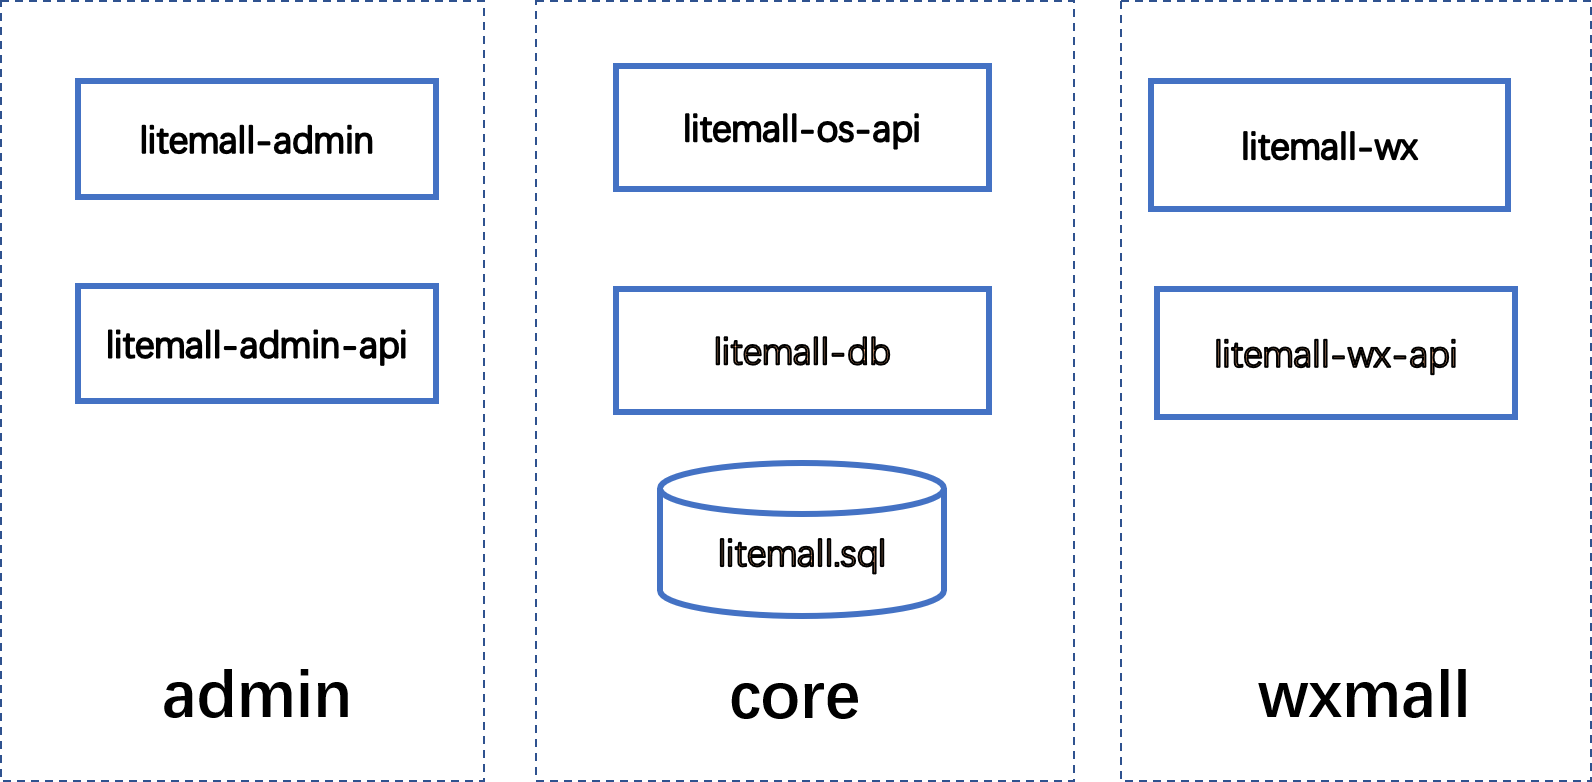
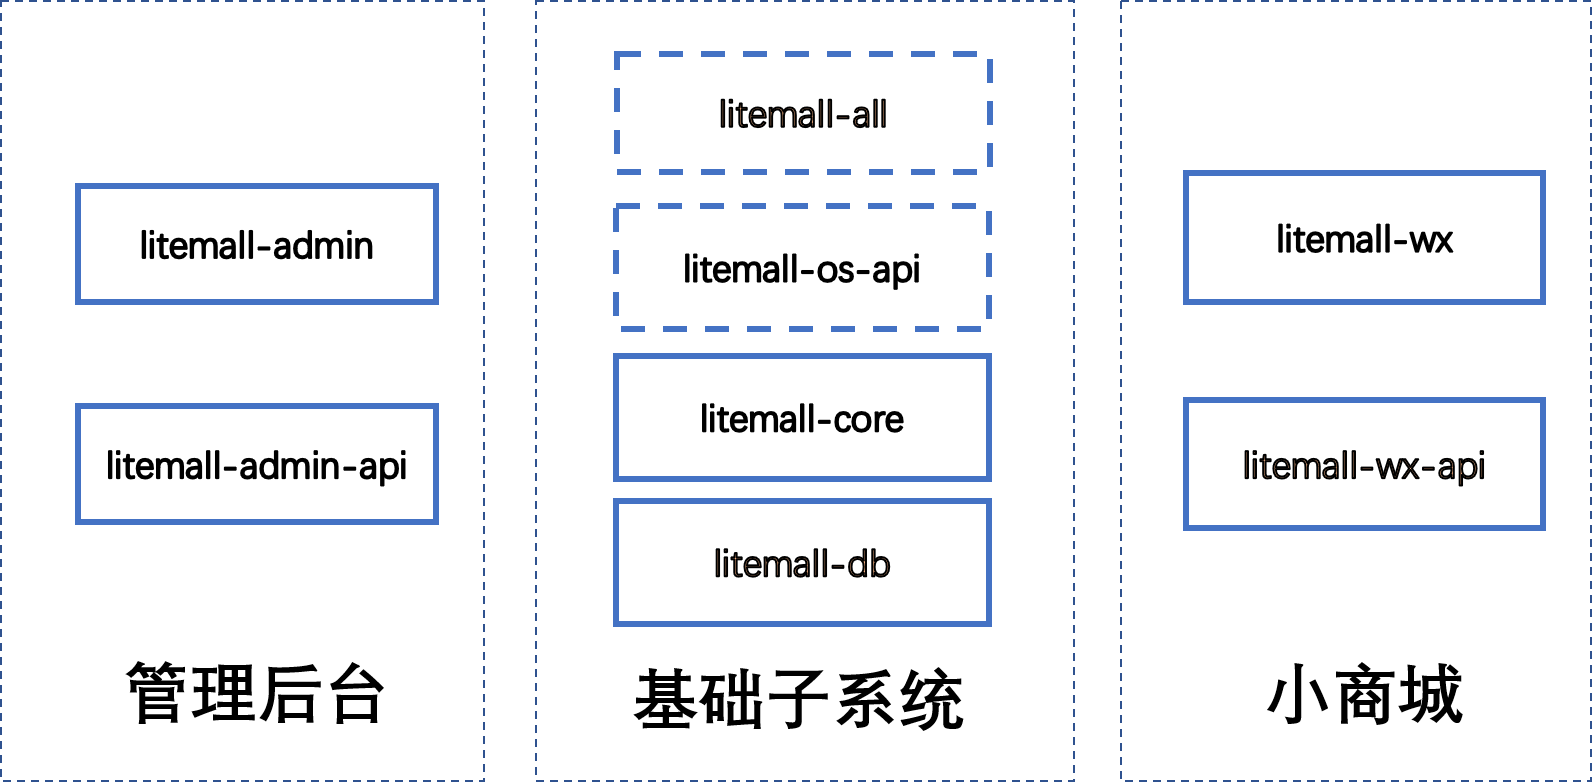
update[doc]

diff --git a/doc/1.md b/doc/1.md
@@ -165,7 +165,7 @@ litemall是一个简单的商场系统，基于现有的开源项目，重新实
 7. 编译本项目
 8. 运行litemall-os-api, 打开浏览器，输入
     ```
-    http://localhost:8081/storage/index/index
+    http://localhost:8081/os/index/index
     ```
     如果出现JSON数据，则Spring Boot开发环境部署成功，litemall-os-api模块运行正常。
 9. 同上，运行litemall-wx-api, 打开浏览器，输入 
@@ -272,13 +272,13 @@ mvn package
 最后，本机测试性部署三个Spring Boot应用
 ```
 cd litemall
-java -jar ./litemall-os-api/target/litemall-os-api-0.1.0.jar &
-java -jar ./litemall-wx-api/target/litemall-wx-api-0.1.0.jar &
-java -jar ./litemall-admin-api/target/litemall-admin-api-0.1.0.jar &
+java -jar ./litemall-os-api/target/litemall-os-api-0.1.0-exec.jar &
+java -jar ./litemall-wx-api/target/litemall-wx-api-0.1.0-exec.jar &
+java -jar ./litemall-admin-api/target/litemall-admin-api-0.1.0-exec.jar &
 ```
 如果，能够访问以下链接的数据，则表明本地测试部署成功：
 ```
-http://localhost:8081/storage/index/index
+http://localhost:8081/os/index/index
 http://localhost:8082/wx/index/index
 http://localhost:8083/admin/index/index
 ```
@@ -474,9 +474,9 @@ cnpm run build:prod
 https://docs.spring.io/spring-boot/docs/1.5.10.RELEASE/reference/htmlsingle/#deployment-service
 
 1. 项目进一步打包到deploy文件夹中：
-   * litemall-os-api模块编译得到的litemall-os-api-xxx.jar 保存到deploy的litemall-os-api文件夹中，同时重命名成litemall-os-api.jar
-   * litemall-wx-api模块编译得到的litemall-wx-api-xxx.jar 保存到deploy的litemall-wx-api文件夹中，同时重命名成litemall-wx-api.jar
-   * litemall-admin-api模块编译得到的litemall-admin-api-xxx.jar 保存到deploy的litemall-admin-api文件夹中，同时重命名成litemall-admin-api.jar
+   * litemall-os-api模块编译得到的litemall-os-api-xxx-exec.jar 保存到deploy的litemall-os-api文件夹中，同时重命名成litemall-os-api.jar
+   * litemall-wx-api模块编译得到的litemall-wx-api-xxx-exec.jar 保存到deploy的litemall-wx-api文件夹中，同时重命名成litemall-wx-api.jar
+   * litemall-admin-api模块编译得到的litemall-admin-api-xxx-exec.jar 保存到deploy的litemall-admin-api文件夹中，同时重命名成litemall-admin-api.jar
    * litemall-admin模块编译以后，把dist文件夹压缩，然后放到deploy的litemall-admin文件夹中。
    
 2. 使用FileZilla把deploy整个文件夹上传到云主机的/home/ubuntu文件夹中
@@ -509,7 +509,7 @@ https://docs.spring.io/spring-boot/docs/1.5.10.RELEASE/reference/htmlsingle/#dep
     然后测试是否部署成功(xxx.xxx.xxx.xxx是云主机IP）：
 
     ```
-    http://xxx.xxx.xxx.xxx:8081/storage/index/index
+    http://xxx.xxx.xxx.xxx:8081/os/index/index
     http://xxx.xxx.xxx.xxx:8082/wx/index/index
     http://xxx.xxx.xxx.xxx:8083/admin/index/index
     http://xxx.xxx.xxx.xxx:8080/#/login
@@ -537,16 +537,38 @@ https://docs.spring.io/spring-boot/docs/1.5.10.RELEASE/reference/htmlsingle/#dep
 
 ### 1.5.4 分布式云部署方案
 
-目前没有测试过，但是简单的分布式应该是可行的。
-
 由于本项目是面向微小型企业的小商城系统，因此预期的分布式部署方案是
 1. 专门的云数据库部署数据
-2. 一台云主机部署管理后台的后台服务
-3. 一台云主机部署管理后台静态文件服务
-4. 一台云主机部署小商场的后台服务
-5. 专门的云存储方案
+2. 专门的云存储方案
+3. 专门的CDN分发管理后台的静态文件
+4. 一台云主机部署管理后台的后台服务
+5. 一台云主机部署小商场的后台服务
 
-因此，如果需要实现互联网式分布式云部署，目前的项目架构和方案会存在很多问题。
+虽然由于环境原因没有正式测试过，但是这种简单的分布式场景应该是可行的。
+在1.5.3节中所演示的四个服务是独立的，因此延伸到这里分布式是非常容易的。
+
+但是，如果需要实现互联网式分布式云部署，目前的项目架构和方案会存在很多问题。
 至少每个功能模块应该是独立服务系统。此外，需要引入单点登录系统、集群、缓存
-和消息队列等多种技术。
+和消息队列等多种技术。因此如果开发者需要这种形式的分布式方案，请参考其他项目。
 
+### 1.5.5 单主机单服务war部署方案
+
+这里介绍另外一种单主机单服务的方案，即四个服务打包成一个war格式的项目部署包。
+
+和1.5.3节相比，采用这样方案的原因是：
+1. 安装方便，是传统的web项目安装方式，在tomcat里面部署一个war项目包，即可完成安装；
+2. 内存消耗少。在1.5.3节中四个独立的java环境消耗的内存大概1.2G多，而这里部署以后
+只需要一个java环境，因此消耗内存只有1.5.3节方案的四分之一，适合1G云主机部署。
+3. 只存在一个域名和端口，没有多个服务之间依赖关系。
+
+具体的打包部署方案是；
+1. litemall-admin首先需要先编译得到静态文件；
+2. 采用`mvn package`命令，litemall-all模块自动生成war格式的安装包，里面
+   包含了三个后台服务和静态文件；
+3. 把这个安装包手动或采用其他方式部署云主机的tomcat服务器。
+
+更多细节阅读2.5节litemall-all模块。
+
+注意：
+> 虽然这里介绍了这种方案，但是本项目的开发、测试和部署是基于1.5.3方案，
+> 因此开发者可能需要做一些配置方面的调整，例如三个后台服务地址调整。

diff --git a/doc/2.md b/doc/2.md
@@ -376,15 +376,21 @@ litemall.sql数据库基于nideshop中的[nideshop.sql](https://github.com/tumob
        }
     }
     ```
+
+## 2.3 litemall-core
         
-## 2.3 litemall-os-api
+## 2.4 litemall-os-api
 
 对象存储服务目前的目标是支持图片的上传下载。
 
 作为后台模块之一，litemall-os-api并没有对应的前端模块，而只是在litemall-admin模块
 的对象存储页面中允许管理员修改。
 
-### 2.3.1 业务
+注意：
+> 这个模块是可选的，或者说不建议最终部署时所使用。
+> 最终部署时建议采用第三方云存储方案。
+
+### 2.4.1 业务
 
 支持服务：
 
@@ -396,7 +402,7 @@ litemall.sql数据库基于nideshop中的[nideshop.sql](https://github.com/tumob
 * 下载，即下载对象数据文件
 * 访问，即直接访问对象数据
 
-### 2.3.2 安全
+### 2.4.2 安全
 
 警告
 > 目前这里没有任何安全机制，这意味着任何人如果知道对象存储服务的地址，都可以直接存储访问对象数据。
@@ -404,3 +410,43 @@ litemall.sql数据库基于nideshop中的[nideshop.sql](https://github.com/tumob
 这样简化的目的是对象存储服务建议最终采用云服务，因此这里仅仅实现一个简单的服务面向测试开发。
 
 如果用户需要局域网部署，那么这里需要加入一定的安全机制。
+
+### 2.4.3 文件Key
+
+每一个上传的文件都会采用一个随机值key，作为当前文件的网络访问链接的一部分。
+
+以后可能需要进一步支持用户自定义Key，例如采用原文件名字作为key。
+
+
+## 2.5 litemall-all
+
+在章节1.5中讨论的部署方案中设计了一种单主机单服务方案，
+也就是说三个后台服务和静态文件都部署在一个Spring Boot应用中。
+
+注意：
+> 这个模块也是可选的，或者说不是非常建议的，应该仅用在主机内存资源紧张的情况下。
+> 最终部署，仍然建议部署多个服务更为安全和稳定。
+
+查看litemall-all模块，代码仅仅只有一个Application类。
+
+实际的原理是litemall-all模块内的pom.xml文件：
+
+1. 声明打包方式是`war`，因此最后会打包war格式
+
+2. 设置`spring-boot-starter-tomcat`包是`provided`，因此最终不会打包
+
+3. 申明依赖`litemall-os-api`、`litemall-wx-api`和`litemall-admin-api`，
+   因此最终会打包；
+   
+   在Application类里面通过`scanBasePackages`即可把三个后台服务模块
+   的服务启动。此外在tomcat中启动，需要采用继承`SpringBootServletInitializer`类
+   的Application。
+   
+4. 利用maven-resources-plugin插件，将litemall-admin模块下编译得到dist文件下的
+   静态文件打包到static目录中。
+   
+   注意，这里只是简单的复制。因此开发者需要保证litemall-all打包前，litemall-admin
+   模块内dist目录下静态文件已经生成。
+   
+最终打包以后则是一个war格式的项目包，包含了三个后台服务和静态文件。
+

diff --git a/README.md b/README.md
@@ -124,7 +124,7 @@ V 2.0.0 完成以下目标：
 
 V 3.0.0 完成以下目标：
 1. 管理后台一些辅助功能
-2. 后台服务加强安全功能、事务功能
+2. 后台服务加强安全功能、配置功能
 3. 项目代码重构和清理
 4. 其他配套服务，如代码文档、war部署支持
 
@@ -158,9 +158,20 @@ V 3.0.0 完成以下目标：
   * `管理后台`商品详细信息支持tinymce富文本编辑
   * `管理后台`的后台服务加密管理员密码
   * `管理后台`完善登录退出逻辑
-  * `数据库`除regions几个表，其他所有表都添加`add_time`和`deleted`字段
-  * `业务访问模块`不支持数据物理删除，删除则设置`deleted`，而查询则过滤`deleted`
-  
+  * `基础系统`数据库中除regions几个表，其他所有表都添加`add_time`和`deleted`字段
+  * `基础系统`litemall-db模块不支持数据物理删除，删除则设置`deleted`，而查询则过滤`deleted`
+* V 0.4.0, 项目结构调整，增加了两个模块
+  * `小商场`的后台服务代码添加注释，校验输入参数
+  * `小商场`商品无货时显示“商品已售空”
+  * `管理后台`支持管理员同一账户多终端登录，方便演示
+  * `管理后台`专题内容支持富文本编辑
+  * `基础系统`litemall-os-api的链接从`storage/index/index`调整至`os/index/index`
+  * `基础系统`litemall-os-api支持浏览器显示。
+  * `基础系统`新增litemall-core模块，综合了litemall-os-api、litemall-wx-api
+     和litemall-admin-api的共性代码，目前主要是配置和util代码
+  * `基础系统`新增litemall-all模块作为包裹模块，支持三个后台服务和静态文件
+     打包成一个war项目包
+    
 警告
 ==
 

diff --git a/doc/3.md b/doc/3.md
@@ -145,12 +145,40 @@
 或者采用更加符合实际情况的运费计算方式。
 
 #### 3.1.9.2 取消订单
+
+* 用户手动取消
+
+  用户下单以后但是未付款，
+
+* 用户超时取消
+
+  这里，订单超时未付款则系统会自动取消订单。
+  
+  在实现上，则是采用Spring定时功能查询数据库内订单的时间和状态，
+  如果发现超时了，则自动取消订单，而取消订单的具体操作可以简单
+  采用“用户手动取消”相同的操作。
+  
+  目前这里取消状态码是一样的，因此最终可能并不能分别订单取消是因为
+  何种原因而取消的。
+  
 #### 3.1.9.3 取消订单并退款
+
+用户付款以后再申请取消订单比较复杂，涉及微信退款操作，因此这里并没有
+简单作为“取消订单”，而是一种独立的功能。
+
 #### 3.1.9.4 删除订单
 #### 3.1.9.5 订单确认发货
+#### 3.1.9.6 订单超时确认收货
+
+用户收到货物以后可能并不会积极地进行“确认收货”操作，因此有必要实现
+一定时间以后订单自动确认收货。
+
+“订单超时确认”的起始时间如何来设计
+
 #### 3.1.9.6 可评价订单商品信息
 #### 3.1.9.7 订单列表
 #### 3.1.9.8 订单详情
+
 
 ### 3.1.10 评价服务
 
@@ -379,10 +407,14 @@ var WxApiRoot = 'http://localhost:8082/wx/';
 
 #### 3.2.5.3 addressId
 
-## 3.3 开发
+## 3.3 开发新功能
+
+本章节介绍如何开发新的微信小程序功能。
 
 ### 3.3.1 小商场页面开发
 
 ### 3.3.2 交互服务API设计
 
 ### 3.3.3 后台服务开发
+
+### 3.3.4 数据库

diff --git a/deploy/README.md b/deploy/README.md
@@ -33,7 +33,7 @@
     然后测试是否部署成功(xxx.xxx.xxx.xxx是云主机IP）：
 
     ```
-    http://xxx.xxx.xxx.xxx:8081/storage/index/index
+    http://xxx.xxx.xxx.xxx:8081/os/index/index
     http://xxx.xxx.xxx.xxx:8082/wx/index/index
     http://xxx.xxx.xxx.xxx:8083/admin/index/index
     http://xxx.xxx.xxx.xxx:8080/#/login
